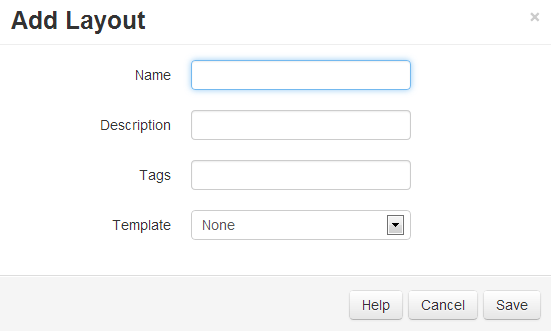
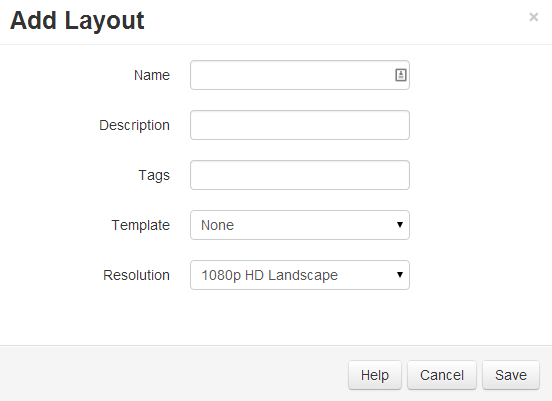
[cms] Manual for template/resolution changes. Add Layout manual changes.

diff --git a/server/manual/content/templates/overview.php b/server/manual/content/templates/overview.php
@@ -21,7 +21,7 @@
 defined('XIBO') or die("Sorry, you are not allowed to directly access this page.<br /> Please press the back button in your browser.");
 ?>
 <h1>Templates</h1>
-<p>Templates allow a user to save a layouts generic properties so that it can be used to create the same layout with different content. A number of default templates are provided which are a single full screen Layout at a specific Aspect Ratio.</p>
+<p>Templates allow a user to save a layouts generic properties so that it can be used to create the same layout with different content. Templates are optional.</p>
 
 <p>Templates are accessed using the Design top navigation menu item and the "Templates" sub-menu item.</p>
 
@@ -33,42 +33,4 @@ defined('XIBO') or die("Sorry, you are not allowed to directly access this page.
 <p><img class="img-thumbnail" alt="Template Administration" src="content/layout/layout_designer_options_menu.png"></p>
 <p><img class="img-thumbnail" alt="Template Administration" src="content/templates/template_save_from_layout.png"></p>
 
-
-<h2>Choosing the right template</h2> 
-<p><?php echo PRODUCT_NAME; ?> comes with a selection of default templates that caters for most digital signage applications (e.g. LCD TVs, projectors, 
-portrait screens).</p>
-
-<p>The <?php echo PRODUCT_NAME; ?> client will make its best effort to fit whatever shape layout you choose on to the screen. However sending a client 
-a layout in a 4:3 aspect ratio when it is connected to a 16:9 TV wastes two bars on either side of your content.</p>
-
-<p>You should choose a template with the closest aspect ratio to the screen you will be showing the layout on. 
-Here's a list of typical displays and the template to choose:</p>
-
-<dl>
-	<dt>LCD/Plasma Wide screen TV</dt>
-	<dd>LCD TVs tend to be either 16:9 aspect ratio. Try "Full Screen 16:9" first. If you find there are slim black bars to the top and bottom of your full screen content, try switching to "Full Screen 16:10".</dd>
-</dl>
-
-<dl>
-	<dt>Wide screen Projectors</dt>
-	<dd>Wide screen projectors can be 16:9 or 16:10 so you'll need to try both and see which fits best.</dd>
-</dl>
-
-<dl>
-	<dt>Wide screen Computer Monitors</dt>
-	<dd>Wide screen Computer Monitors are usually 16:10 but there are a few 16:9 ones out there. Try "Full Screen 16:10" first.</dd>
-</dl>
-
-<dl>
-	<dt>Computer Monitors</dt>
-	<dd>Non-wide screen computer monitors are usually 4:3 aspect ratio. Try "Full Screen 4:3".</dd>
-</dl>
-
-<dl>
-	<dt>CRT Televisions</dt>
-	<dd>Old TVs tend to be either 4:3 or 3:2 aspect ratio. Try "Full Screen 4:3" or "Full Screen 3:2" and see which fits best.</dd>
-</dl>
-
-<p>There are also specialist versions of all the above displays that are turned on their side. Called "Portrait" displays, 
-they are taller than they are wide. <?php echo PRODUCT_NAME; ?> supports all the above aspect ratios for portrait screens - 2:3, 3:4, 9:16, 10:16. 
-Consult your display manufacturer to find out which aspect ratio to choose.</p>
+<p>Once added a template will be available on the Add Layout form.</p>

diff --git a/server/manual/content/templates/template_resolution.php b/server/manual/content/templates/template_resolution.php
@@ -21,7 +21,9 @@
 defined('XIBO') or die("Sorry, you are not allowed to directly access this page.<br /> Please press the back button in your browser.");
 ?>
 <h1>Resolutions</h1>
-<p>Layout design is always done according to the Target Resolution and Aspect Ratio. <?php echo PRODUCT_NAME; ?> has defined a set of the most common aspect ratios and their associated Resolutions (for the designer and for the target display).</p>
+<p>Layouts are designed for a particular resolution and scaled down in the designer so they easily fit on the admin PC screen. <?php echo PRODUCT_NAME; ?> has defined a set of the most common resolutions for the designer and for the target display.</p>
+
+<p>The Layout Designer can be zoomed so that a larger design area is available - this does not effect the final display client resolution.</p>
 
 <p>Resolutions can be viewed from the Resolution Administration page under the Design menu, Resolutions sub menu.</p>
 
@@ -34,3 +36,40 @@ defined('XIBO') or die("Sorry, you are not allowed to directly access this page.
 <p><img class="img-thumbnail" alt="Resolution Form" src="content/templates/template_edit_resolution.png"></p>
 
 <p class="alert alert-warning">The Designer Width / Height will always be automatically calculated to fit within the Layout Designer.</p>
+
+<h2>Choosing the right resolution</h2> 
+<p><?php echo PRODUCT_NAME; ?> comes with a selection of default resolutions that cater for most digital signage applications (e.g. LCD TVs, projectors, 
+portrait screens).</p>
+
+<p class="alert alert-info">The <?php echo PRODUCT_NAME; ?> client will make its best effort to fit whatever shape layout you choose on to the screen. However sending a client a layout in a 4:3 aspect ratio when it is connected to a 16:9 TV wastes two bars on either side of your content.</p>
+
+<p>You should choose a resolution closest to the screen you will be showing the layout on.</p>
+
+<dl>
+	<dt>LCD/Plasma Wide screen TV</dt>
+	<dd>LCD TVs tend to be either 16:9 aspect ratio. Try "Full Screen 16:9" first. If you find there are slim black bars to the top and bottom of your full screen content, try switching to "Full Screen 16:10".</dd>
+</dl>
+
+<dl>
+	<dt>Wide screen Projectors</dt>
+	<dd>Wide screen projectors can be 16:9 or 16:10 so you'll need to try both and see which fits best.</dd>
+</dl>
+
+<dl>
+	<dt>Wide screen Computer Monitors</dt>
+	<dd>Wide screen Computer Monitors are usually 16:10 but there are a few 16:9 ones out there. Try "Full Screen 16:10" first.</dd>
+</dl>
+
+<dl>
+	<dt>Computer Monitors</dt>
+	<dd>Non-wide screen computer monitors are usually 4:3 aspect ratio. Try "Full Screen 4:3".</dd>
+</dl>
+
+<dl>
+	<dt>CRT Televisions</dt>
+	<dd>Old TVs tend to be either 4:3 or 3:2 aspect ratio. Try "Full Screen 4:3" or "Full Screen 3:2" and see which fits best.</dd>
+</dl>
+
+<h3>Portrait Displays</h3>
+<p>There are also specialist versions of the most common resolutions that are turned on their side. Called "Portrait" displays, 
+they are taller than they are wide.</p>

diff --git a/server/lib/data/template.data.class.php b/server/lib/data/template.data.class.php
@@ -62,15 +62,14 @@ class Template extends Data
                 $this->ThrowError(__('Cannot get the Layout Structure.'));
             
             // Insert the template
-            $SQL = "INSERT INTO template (template, tags, issystem, retired, description, createdDT, modifiedDT, userID, xml) ";
-            $SQL.= "  VALUES (:template, :tags, :issystem, :retired, :description, :createddt, :modifieddt, :userid, :xml) ";
+            $SQL = "INSERT INTO template (template, tags, retired, description, createdDT, modifiedDT, userID, xml) ";
+            $SQL.= "  VALUES (:template, :tags, :retired, :description, :createddt, :modifieddt, :userid, :xml) ";
             
             $sth = $dbh->prepare($SQL);
             $sth->execute(array(
                     'template' => $template,
                     'userid' => $userId,
                     'tags' => $tags,
-                    'issystem' => 0,
                     'retired' => 0,
                     'description' => $description,
                     'createddt' => $currentdate,

diff --git a/server/manual/content/layout/overview.php b/server/manual/content/layout/overview.php
@@ -120,7 +120,12 @@ defined('XIBO') or die("Sorry, you are not allowed to directly access this page.
 
 <dl class="dl-horizontal">
 	<dt>Template</dt>
-	<dd>Optionally you can choose a template to base the new layout on. Templates typically provide an aspect ratio, a background image and one or more empty region timelines.</dd>
+	<dd>Optionally you can choose a template to base the new layout on. Templates typically provide a resolution, a background image and one or more empty region timelines. If a template is selected the resolution option will be removed.</dd>
+</dl>
+
+<dl class="dl-horizontal">
+	<dt>Resolution</dt>
+	<dd>Choose the resolution for the layout. This should be the resolution of the intended display. If the resolution is not known or incorrect the client will resize the layout to fit at runtime.</dd>
 </dl>
 
 <p class="alert alert-info">When a new layout is created (Save is clicked) the user is automatically taken to the Layout Designer.</p>

diff --git a/server/theme/default/html/header.php b/server/theme/default/html/header.php
@@ -70,6 +70,7 @@ defined('XIBO') or die("Sorry, you are not allowed to directly access this page.
 								<li><a class="XiboFormButton" href="index.php?p=user&q=ChangePasswordForm" title="<?php echo Theme::Translate('Change Password') ?>"><?php echo Theme::Translate('Change Password') ?></a></li>
 								<li><a class="XiboFormButton" href="index.php?p=index&q=About" title="<?php echo Theme::Translate('About the CMS'); ?>"><?php echo Theme::Translate('About'); ?></a></li>
 								<li><a title="Show Help" class="XiboHelpButton" href="<?php echo Theme::GetPageHelpLink(); ?>"><?php echo Theme::Translate('Help'); ?></a></li>
+								<li><a href="manual/" target="_blank" title="<?php echo Theme::Translate('Open the Manual in a new Window'); ?>"><?php echo Theme::Translate('Manual'); ?></a></li>
 								<li><a title="Logout" href="index.php?q=logout"><?php echo Theme::Translate("Logout"); ?></a></li>
 							</ul>
 						</li>

diff --git a/server/theme/default/html/template_page_grid.php b/server/theme/default/html/template_page_grid.php
@@ -33,7 +33,6 @@ defined('XIBO') or die("Sorry, you are not allowed to directly access this page.
 	<thead>
 		<tr>
 			<th><?php echo Theme::Translate('Name'); ?></th>
-			<th><?php echo Theme::Translate('Is System'); ?></th>
 			<th><?php echo Theme::Translate('Tags'); ?></th>
 			<th><?php echo Theme::Translate('Owner'); ?></th>
 			<th><?php echo Theme::Translate('Permissions'); ?></th>
@@ -43,7 +42,6 @@ defined('XIBO') or die("Sorry, you are not allowed to directly access this page.
 		<?php foreach(Theme::Get('table_rows') as $row) { ?>
 		<tr>
 			<td><?php echo $row['template']; ?></td>
-			<td><?php echo $row['issystem']; ?></td>
 			<td><?php echo $row['tags']; ?></td>
 			<td><?php echo $row['owner']; ?></td>
 			<td><?php echo $row['permissions']; ?></td>

diff --git a/server/lib/pages/template.class.php b/server/lib/pages/template.class.php
@@ -103,7 +103,7 @@ class templateDAO
             $template['owner'] = $user->getNameFromID($template['ownerid']);
             $template['buttons'] = array();
 
-            if ($template['del'] && $template['issystem'] == 'No') {
+            if ($template['del']) {
 
                 // Delete Button
                 $template['buttons'][] = array(
@@ -113,7 +113,7 @@ class templateDAO
                     );
             }
 
-            if ($template['modifyPermissions'] && $template['issystem'] == 'No') {
+            if ($template['modifyPermissions']) {
 
                 // Permissions Button
                 $template['buttons'][] = array(
